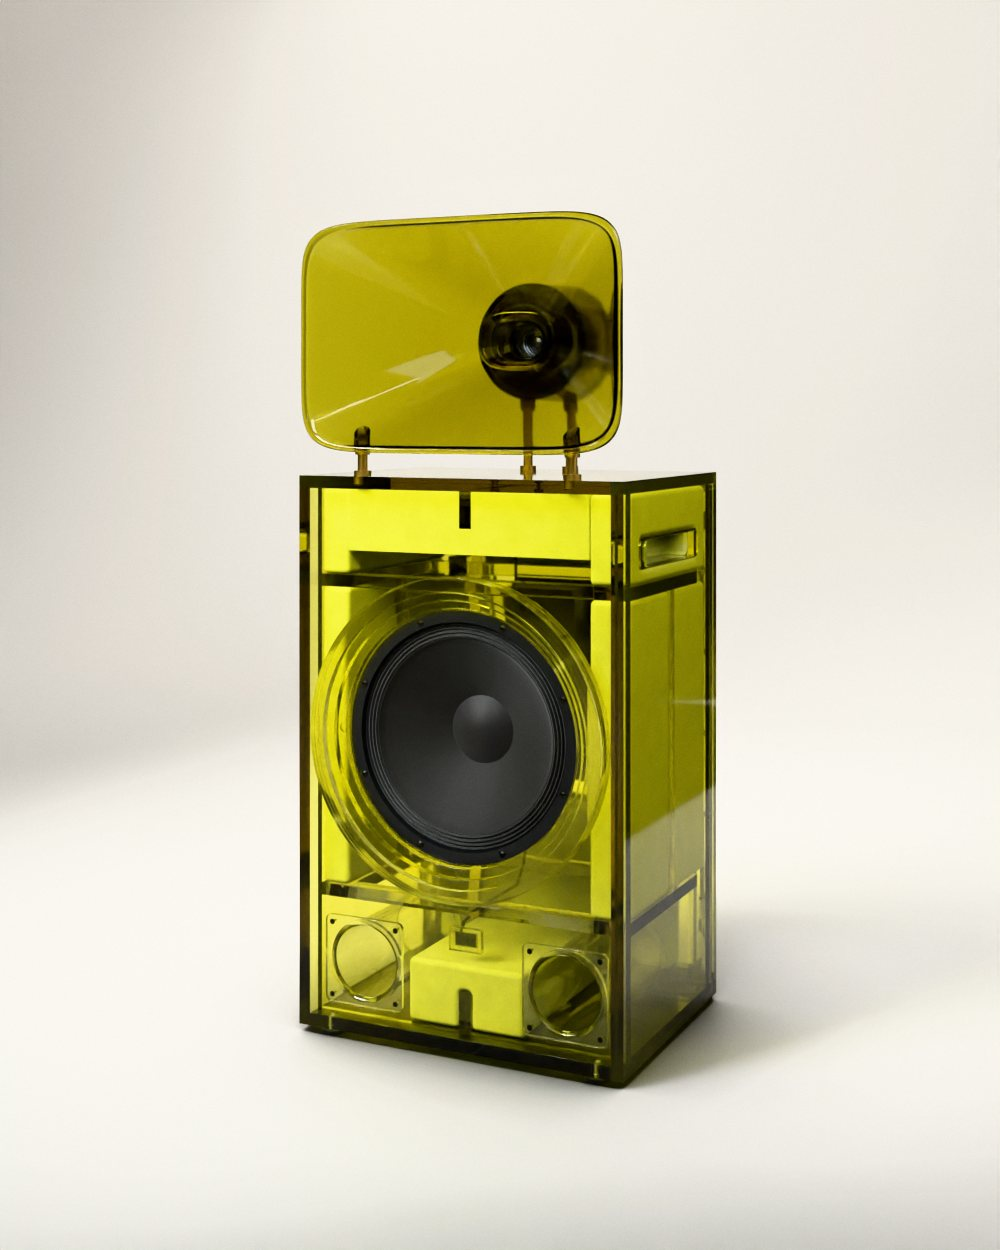
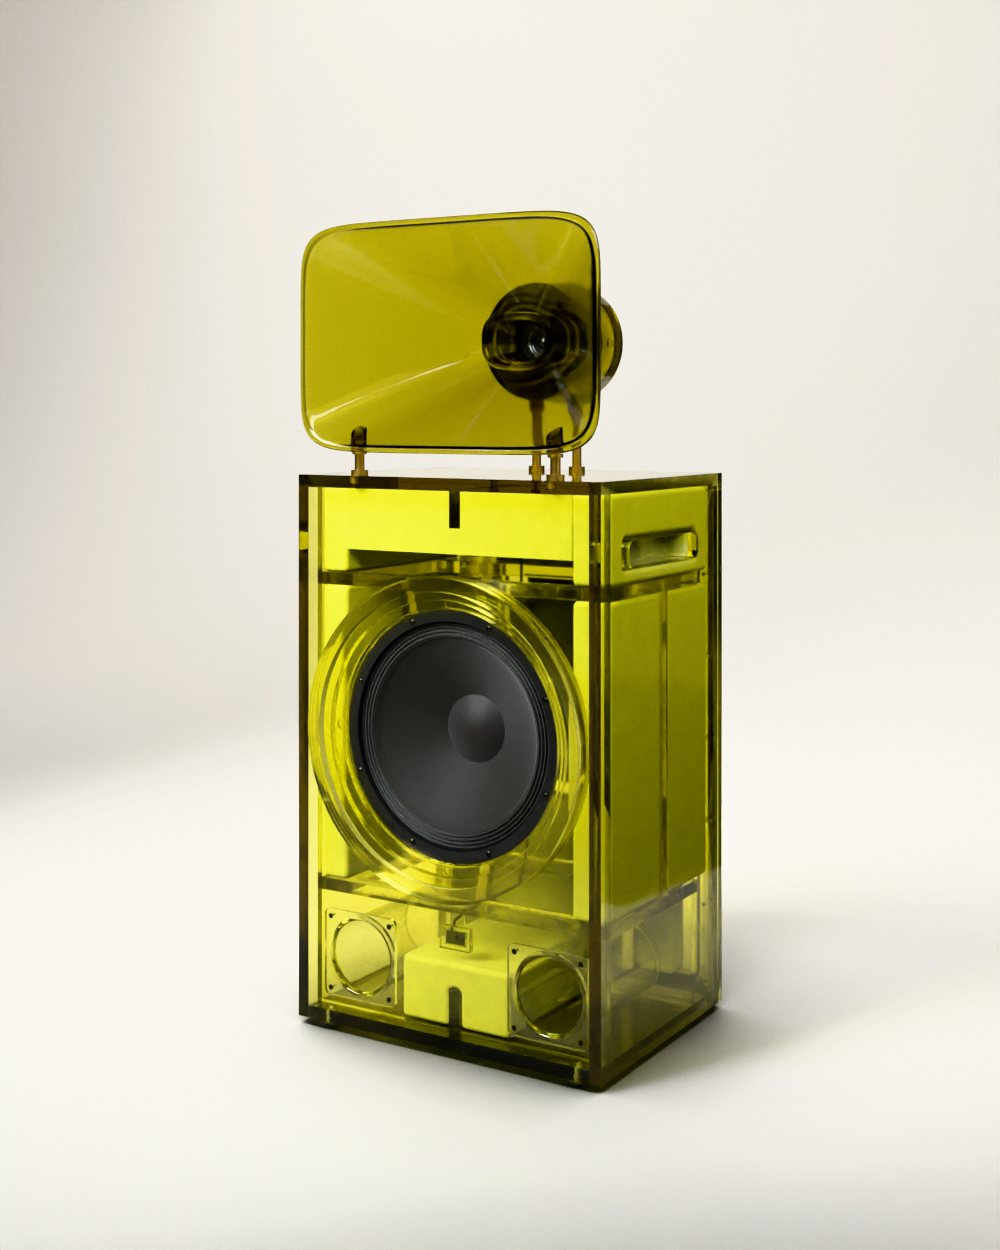
Stage tallr6 fronts: Ember, Acid, Ice (checked: no hidden lamp, no equipment); not republished
Claude-Session: https://claude.ai/code/session_01BAaPTm6ZnW6Wr5zqpr5BWJ

Changed region(s): [[0.279, 0.156, 0.744, 0.8736], [0.341, 0.156, 0.434, 0.1872], [0.434, 0.5616, 0.465, 0.5928]]

diff --git a/spinoffs/barkhorn/brandbook/make_book.py b/spinoffs/barkhorn/brandbook/make_book.py
@@ -35,13 +35,13 @@ PINNED = {'room.jpg': ('754e16a9852f364fb2ebe8eb752c10ab6bdc0e23', 'renders/2026
           'lamp-orb.jpg': ('735e759304b00400750741d5038722a3d4d5f5fb', 'renders/2026-10-31/barkhorn/lamps-cordless/site-img/lamp-orb.jpg'),
           'lamps-orbs.jpg': ('735e759304b00400750741d5038722a3d4d5f5fb', 'renders/2026-10-31/barkhorn/lamps-cordless/site-img/lamps-orbs.jpg'),
           'honest-a-ice.jpg': ('f7f03850edb54dfc9ccbe0cc2655b194cafc1232', 'renders/2026-11-03/barkhorn/base-question/gate2/A-ice-polished-honest.png'),
-          'honest-front-ember.jpg': ('5aa0943bb60d23d6f48f58b67b33cf594daa5de1', 'renders/2026-11-04/barkhorn/rollout/A-polished-tallr3/site-front-off-tall-ember.png'),
+          'honest-front-ember.jpg': ('4fcc28f879d93486c22844a2630b17df1b2e6013', 'renders/2026-11-04/barkhorn/rollout/A-polished-tallr6/site-front-off-tall-ember.png'),
           'honest-front-dust.jpg': ('0690b93c8f9726dfbbf990cb7de3d9aeb7422a2f', 'renders/2026-11-04/barkhorn/rollout/A-polished-tallr3/site-front-off-tall-dust.png'),
           'honest-front-poison.jpg': ('766f299df9326d6b77b3ab9a96d782aeb320329c', 'renders/2026-11-04/barkhorn/rollout/A-polished-tallr3/site-front-off-tall-poison.png'),
-          'honest-front-ice.jpg': ('70e0f9f4ef8946af14a83cc43555005d1fc150a8', 'renders/2026-11-04/barkhorn/rollout/A-polished-tallr3/site-front-off-tall-ice.png'),
+          'honest-front-ice.jpg': ('48dcfd298e39c6e36477a85a9d42e2ecce747968', 'renders/2026-11-04/barkhorn/rollout/A-polished-tallr6/site-front-off-tall-ice.png'),
           'honest-front-haze.jpg': ('94b4534a7684c55e0b3420728f09d12dc6c283f3', 'renders/2026-11-04/barkhorn/rollout/A-polished-tallr3/site-front-off-tall-haze.png'),
           'honest-front-fog.jpg': ('62bc73a7898ab6b5ee4e24645527e87449454029', 'renders/2026-11-04/barkhorn/rollout/A-polished-tallr3/site-front-off-tall-fog.png'),
-          'honest-front-acid.jpg': ('b95319d3995fd290c0dbaf2905a601e6fdbdc149', 'renders/2026-11-04/barkhorn/rollout/A-polished-tallr3/site-front-off-tall-acid.png'),
+          'honest-front-acid.jpg': ('7d741bd64b16731318a1fc724dd5453aefefc66b', 'renders/2026-11-04/barkhorn/rollout/A-polished-tallr6/site-front-off-tall-acid.png'),
           'honest-ice-habitat.jpg': ('0f619953f86129dc54183718e2c50419f37ab820', 'renders/2026-11-03/barkhorn/habitats/ice-portrait-1200x1500.jpg'),
           'honest-amp-ember.jpg': ('488fbec9ed6764c60893e0a2798a6feba9ad296f', 'renders/2026-11-04/barkhorn/rollout/A-polished-p2-backfix/amp-plate-ember.png'),
           'honest-mantle-day.jpg': ('41232b56c60d1980a5ee3de0dddd8344ffb85fee', 'renders/2026-11-03/barkhorn/mantle-r48/a5-day-ember-2423-c3e.png'),
